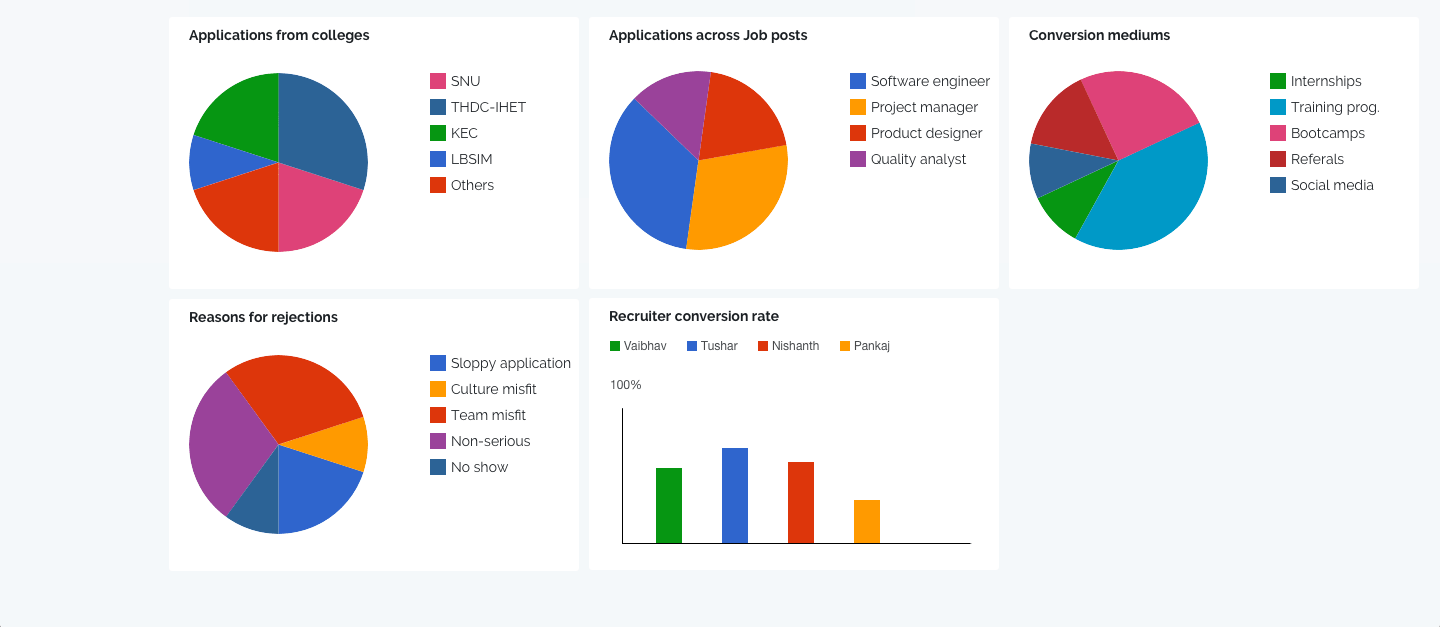
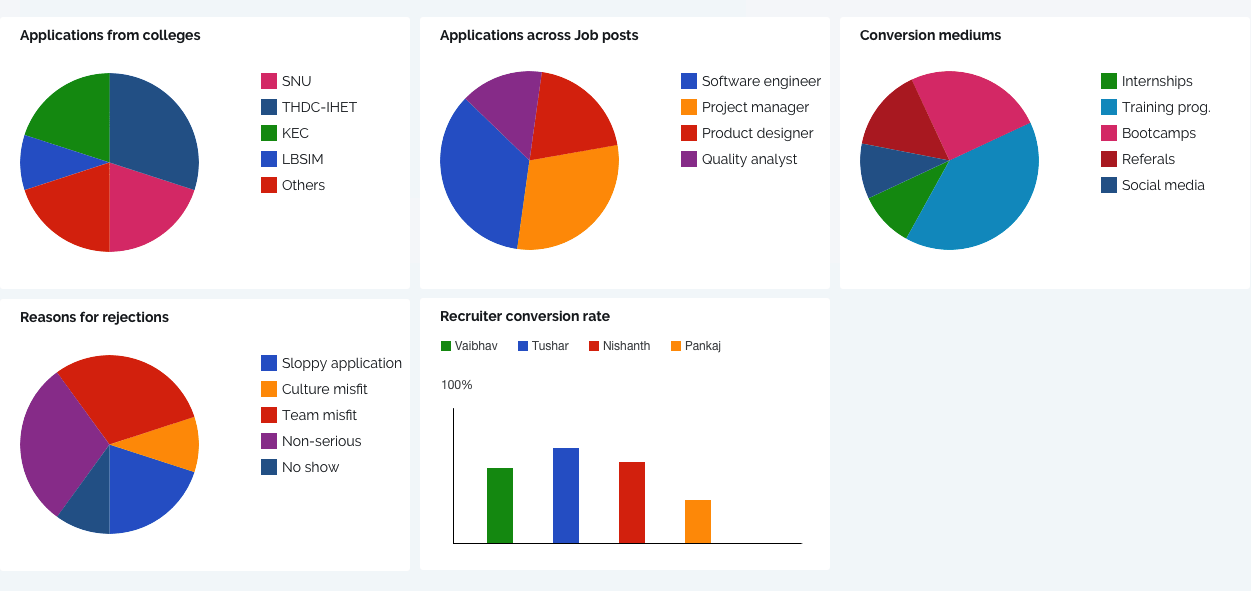
final changes on workflow

diff --git a/resources/views/hr/recruitment/reports.blade.php b/resources/views/hr/recruitment/reports.blade.php
@@ -6,17 +6,17 @@
     <div class="row">
         <div class="col-md-12">
             <br>
-            @include('hr.employees.menu')
+            @include('hr.menu')
             <br><br>
         </div>
         <div class="col-md-12">
             @include('status', ['errors' => $errors->all()])
         </div>
         <div class="col-md-12">
-            <h1>Employee Reports</h1>
+            <h1>Recruitment Reports</h1>
         </div>
         <div class="col-md-12">
-            <img src="/images/employee-reports-min.png" alt="employee reports" class="w-100">
+            <img src="/images/recruitment-report-min.png" alt="employee reports" class="w-100">
         </div>
     </div>
     <div class="row">

diff --git a/routes/web.php b/routes/web.php
@@ -29,6 +29,10 @@ Route::middleware('auth')->group(function () {
     Route::prefix('hr')->namespace('HR')->group(function () {
         Route::get('/', 'HRController@index');
 
+        Route::prefix('recruitment')->namespace('Recruitment')->group(function () {
+            Route::get('reports', 'ReportsController@index')->name('recruitment.reports');
+        });
+
         Route::prefix('applications')->namespace('Applications')->group(function () {
             Route::resource('job', 'JobApplicationController')
                 ->only(['index', 'edit', 'update'])

diff --git a/resources/views/hr/menu.blade.php b/resources/views/hr/menu.blade.php
@@ -8,4 +8,7 @@
     <li class="nav-item">
         <a class="nav-item nav-link {{ Request::is('hr/applications/internship*') ? 'active' : '' }}" href="{{ route('applications.internship.index') }}"><i class="fa fa-university"></i>&nbsp;Internship Applications</a>
     </li>
+    <li class="nav-item">
+        <a class="nav-item nav-link {{ Request::is('hr/recruitment/reports*') ? 'active' : '' }}" href="{{ route('recruitment.reports') }}"><i class="fa fa-pie-chart"></i>&nbsp;Reports</a>
+    </li>
 </ul>

diff --git a/app/Http/Controllers/HR/Recruitment/ReportsController.php b/app/Http/Controllers/HR/Recruitment/ReportsController.php
@@ -1,0 +1,18 @@
+<?php
+
+namespace App\Http\Controllers\HR\Recruitment;
+
+use App\Http\Controllers\Controller;
+
+class ReportsController extends Controller
+{
+    /**
+     * Display the employee reports
+     *
+     * @return \Illuminate\View\View
+     */
+    public function index()
+    {
+        return view('hr.recruitment.reports');
+    }
+}
